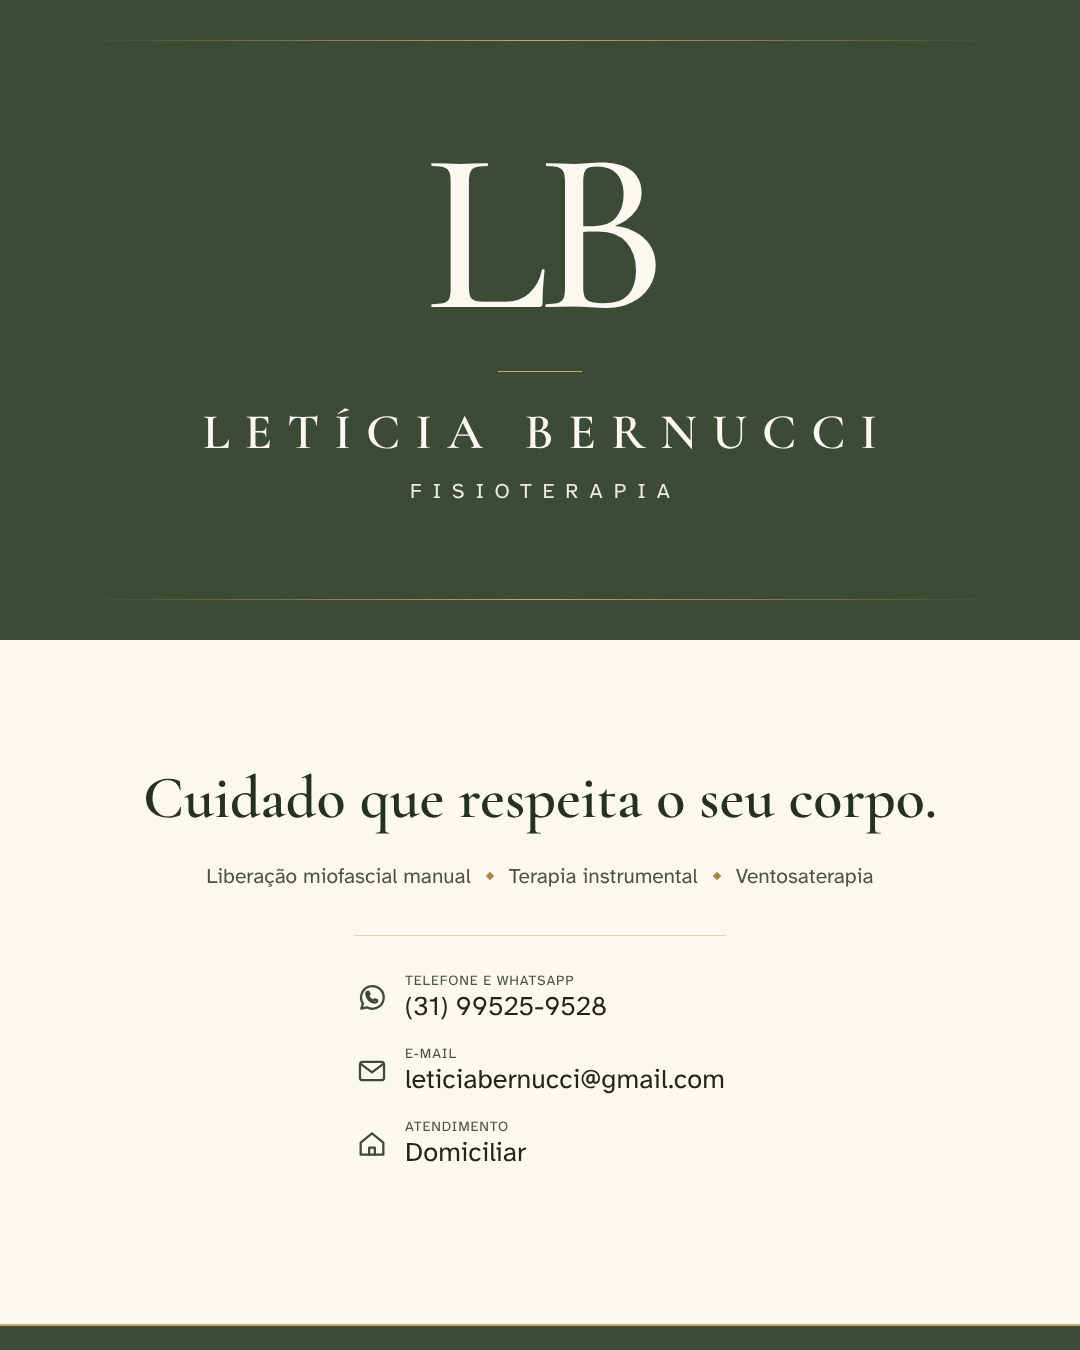
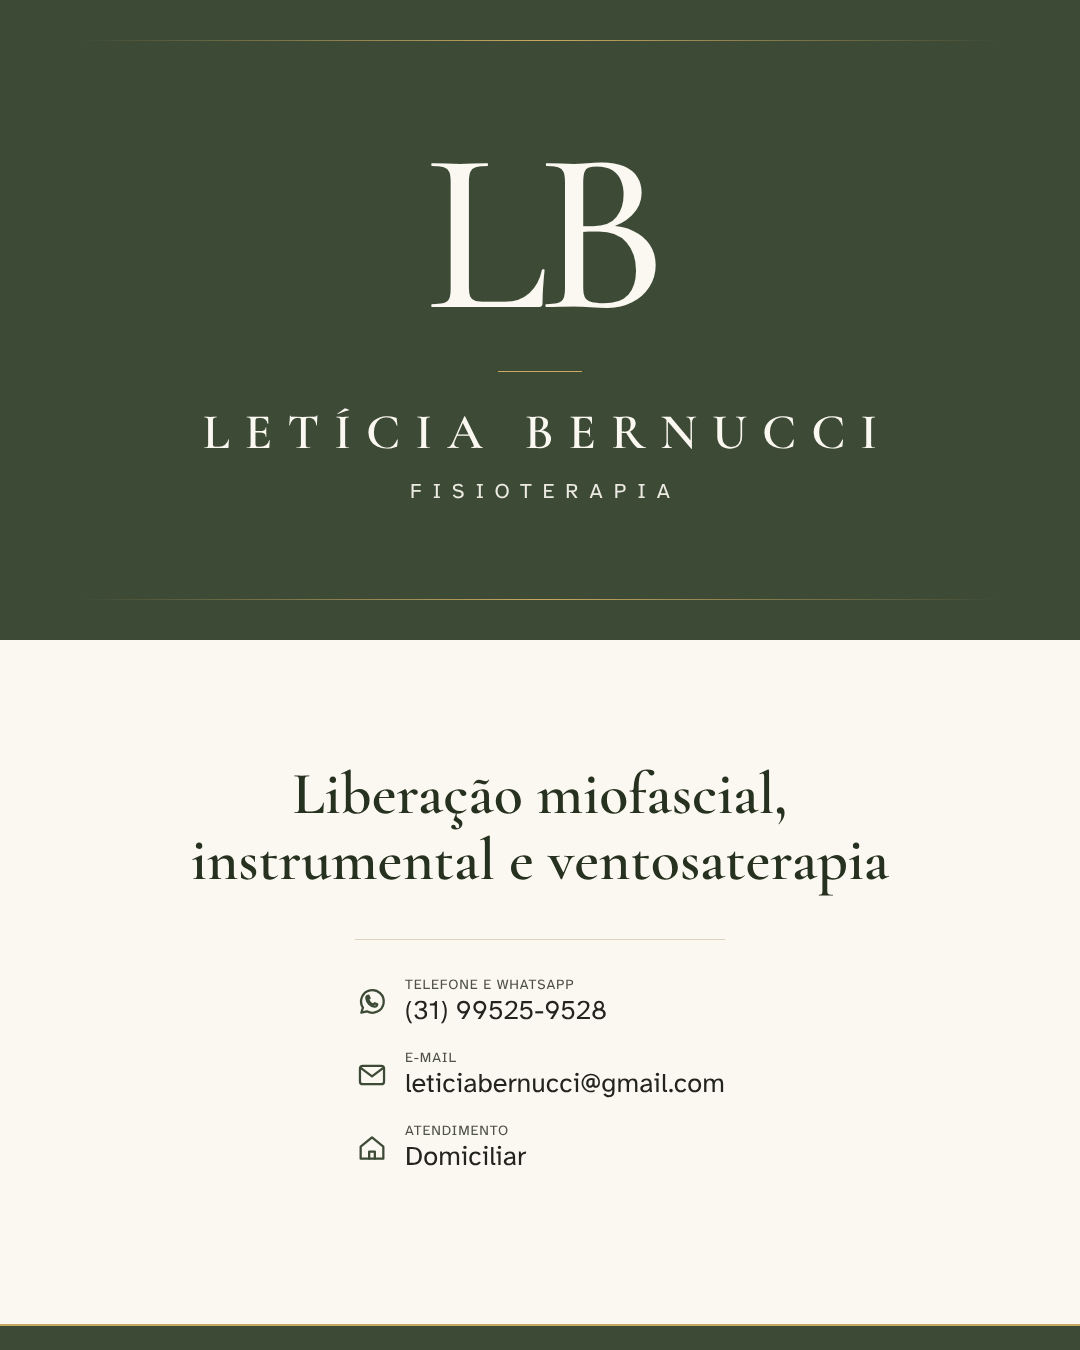
Cartão: destaca "Liberação miofascial, instrumental e ventosaterapia"
- Remove a frase "Cuidado que respeita o seu corpo." e usa as técnicas
  como mensagem principal, logo abaixo do nome.
- A lista separada de técnicas sai para não repetir a informação
  (continua disponível em dados.js, se precisar).
- Quebra de linha equilibrada nas imagens; imagens regeradas.

Claude-Session: https://claude.ai/code/session_01P7P3DMQgmU9pvidckpJpap

Changed region(s): [[0.1528, 0.56, 0.8556, 0.6533], [0.3361, 0.7156, 0.6722, 0.8711]]

diff --git a/cartao/modelo-imagens.html b/cartao/modelo-imagens.html
@@ -60,7 +60,7 @@
     .col-esq .nome { font-family: var(--titulo); font-weight: 600; font-size: 44px; color: var(--musgo-escuro); line-height: 1.05; margin-top: 14px; }
     .col-esq .prof { font-size: 18px; color: var(--texto-suave); margin-top: 8px; }
     .col-esq .regua { width: 48px; height: 1px; background: var(--dourado-escuro); margin: 22px 0 18px; }
-    .col-esq .mensagem { font-family: var(--titulo); font-weight: 600; font-size: 31px; line-height: 1.15; color: var(--musgo-escuro); }
+    .col-esq .mensagem { font-family: var(--titulo); font-weight: 600; font-size: 31px; line-height: 1.15; color: var(--musgo-escuro); text-wrap: balance; }
     .lista-servicos { display: flex; flex-direction: column; gap: 7px; margin-top: 18px; }
     .lista-servicos div { display: flex; align-items: center; gap: 12px; font-size: 16px; color: var(--texto-suave); }
     .lista-servicos .losango { width: 5px; height: 5px; }
@@ -77,7 +77,7 @@
     .f-vertical .topo .nome { font-size: 50px; letter-spacing: .3em; padding-left: .3em; }
     .f-vertical .topo .area { font-size: 21px; letter-spacing: .52em; padding-left: .52em; margin-top: 16px; }
     .f-vertical .base { flex: 1; display: flex; flex-direction: column; align-items: center; justify-content: center; gap: 46px; padding: 0 80px 30px; }
-    .f-vertical .mensagem { font-family: var(--titulo); font-weight: 600; font-size: 60px; line-height: 1.1; color: var(--musgo-escuro); text-align: center; }
+    .f-vertical .mensagem { font-family: var(--titulo); font-weight: 600; font-size: 60px; line-height: 1.1; color: var(--musgo-escuro); text-align: center; text-wrap: balance; }
     .f-vertical .servicos-v { display: flex; align-items: center; justify-content: center; gap: 16px; font-size: 21px; color: var(--texto-suave); margin-top: -14px; }
     .f-vertical .servicos-v .losango { width: 6px; height: 6px; }
     .f-vertical .contatos { display: flex; flex-direction: column; gap: 22px; padding-top: 36px; border-top: 1px solid #DCD2BE; }
@@ -148,11 +148,11 @@
         arte.className = "frente f-" + formato;
         blocoMarca(arte);
         arte.append(mensagem());
-        if (formato === "link") arte.append(servicosLinha());
+        if (formato === "link" && (C.servicos || []).length) arte.append(servicosLinha());
         arte.append(linha({ top: "34px", left: "60px", right: "60px" }), linha({ bottom: "34px", left: "60px", right: "60px" }));
       } else if (formato === "verso") {
         arte.className = "f-verso";
-        const esq = el("div", "col-esq", el("div", "monograma", "LB"), el("div", "nome", C.nome || ""), profissao(), el("div", "regua"), mensagem(), servicosLista());
+        const esq = el("div", "col-esq", el("div", "monograma", "LB"), el("div", "nome", C.nome || ""), profissao(), el("div", "regua"), mensagem(), (C.servicos || []).length ? servicosLista() : null);
         const dir = el("div", "col-dir", ...contatos());
         arte.append(esq, el("div", "divisor"), dir, el("div", "faixa"));
       } else if (formato === "vertical") {
@@ -161,7 +161,7 @@
         blocoMarca(topo);
         topo.append(linha({ top: "40px", left: "80px", right: "80px" }), linha({ bottom: "40px", left: "80px", right: "80px" }));
         const contatosEl = el("div", "contatos", ...contatos());
-        arte.append(topo, el("div", "base", mensagem(), servicosV(), contatosEl), el("div", "faixa"));
+        arte.append(topo, el("div", "base", mensagem(), (C.servicos || []).length ? servicosV() : null, contatosEl), el("div", "faixa"));
       }
       document.fonts.ready.then(() => { document.body.dataset.pronto = "1"; });
     })();

diff --git a/cartao/index.html b/cartao/index.html
@@ -4,11 +4,11 @@
   <meta charset="utf-8">
   <meta name="viewport" content="width=device-width, initial-scale=1, viewport-fit=cover">
   <title>Letícia Bernucci · Fisioterapia</title>
-  <meta name="description" content="Cuidado que respeita o seu corpo. Liberação miofascial manual, terapia instrumental e ventosaterapia. Atendimento domiciliar.">
+  <meta name="description" content="Liberação miofascial, instrumental e ventosaterapia. Atendimento domiciliar.">
   <meta name="theme-color" content="#3D4A36">
   <meta property="og:type" content="website">
   <meta property="og:title" content="Letícia Bernucci · Fisioterapia">
-  <meta property="og:description" content="Cuidado que respeita o seu corpo. Liberação miofascial manual · Terapia instrumental · Ventosaterapia · Atendimento domiciliar.">
+  <meta property="og:description" content="Liberação miofascial, instrumental e ventosaterapia · Atendimento domiciliar.">
   <meta property="og:image" content="https://rduartefrancielly-blip.github.io/catalogo-Life-atelie/fisioterapia/cartao/imagens/cartao-link.png">
   <meta property="og:url" content="https://rduartefrancielly-blip.github.io/catalogo-Life-atelie/fisioterapia/cartao/">
   <link rel="icon" href="../img/icone.svg" type="image/svg+xml">
@@ -53,7 +53,7 @@
     .area { font-size: .78rem; letter-spacing: .48em; text-transform: uppercase; margin: 8px 0 0; padding-left: .48em; opacity: .92; }
 
     .verso { padding: 26px 24px 28px; display: flex; flex-direction: column; gap: 22px; }
-    .mensagem { font-family: var(--titulo); font-weight: 600; font-size: 2.05rem; line-height: 1.12; color: var(--musgo-escuro); text-align: center; margin: 6px 0 0; text-wrap: balance; }
+    .mensagem { font-family: var(--titulo); font-weight: 600; font-size: 1.85rem; line-height: 1.15; color: var(--musgo-escuro); text-align: center; margin: 6px 0 0; text-wrap: balance; }
     .regua-escura { width: 40px; height: 1px; background: var(--dourado-escuro); border: 0; margin: -4px auto -6px; }
     .servicos { list-style: none; margin: 0; padding: 0; display: flex; flex-direction: column; align-items: center; gap: 6px; text-align: center; color: var(--texto-suave); }
     .servicos li + li::before { content: ""; display: block; width: 5px; height: 5px; margin: 0 auto 6px; background: var(--dourado-escuro); transform: rotate(45deg); }
@@ -117,6 +117,7 @@
       if (C.mensagem) msg.textContent = C.mensagem; else msg.hidden = true;
       const servicos = document.getElementById("servicos");
       for (const s of C.servicos || []) servicos.append(el("li", null, s));
+      if (!servicos.children.length) { servicos.hidden = true; document.querySelector(".regua-escura").hidden = true; }
 
       const atend = document.getElementById("atendimento");
       const textoAtend = [C.atendimento, marcar(C.cidade, "[cidade]")].filter(Boolean).join(" · ");

diff --git a/cartao/dados.js b/cartao/dados.js
@@ -6,9 +6,9 @@ window.CARTAO = {
   nome: "Letícia Bernucci",
   area: "Fisioterapia",
   profissao: "Fisioterapeuta",
-  mensagem: "Cuidado que respeita o seu corpo.",
+  mensagem: "Liberação miofascial, instrumental e ventosaterapia",
   registro: "",            // ex.: "CREFITO-4 000000-F"
-  servicos: ["Liberação miofascial manual", "Terapia instrumental", "Ventosaterapia"],
+  servicos: [],            // lista opcional de técnicas, mostrada abaixo da mensagem
   atendimento: "Atendimento domiciliar",
   cidade: "",              // ex.: "Belo Horizonte · MG"
   telefone: "31995259528", // só números, com DDD

diff --git a/cartao/cartao.js b/cartao/cartao.js
@@ -49,7 +49,7 @@
       C.email ? "EMAIL;TYPE=INTERNET:" + C.email : "",
       C.instagram ? "URL:" + linkInstagram() : "",
       C.link ? "URL:" + C.link : "",
-      "NOTE:" + esc([(C.servicos || []).join(", "), C.atendimento, C.cidade].filter(Boolean).join(" · ")),
+      "NOTE:" + esc([C.mensagem, (C.servicos || []).join(", "), C.atendimento, C.cidade].filter(Boolean).join(" · ")),
       "END:VCARD"
     ].filter(Boolean);
     return linhas.join("\r\n") + "\r\n";
